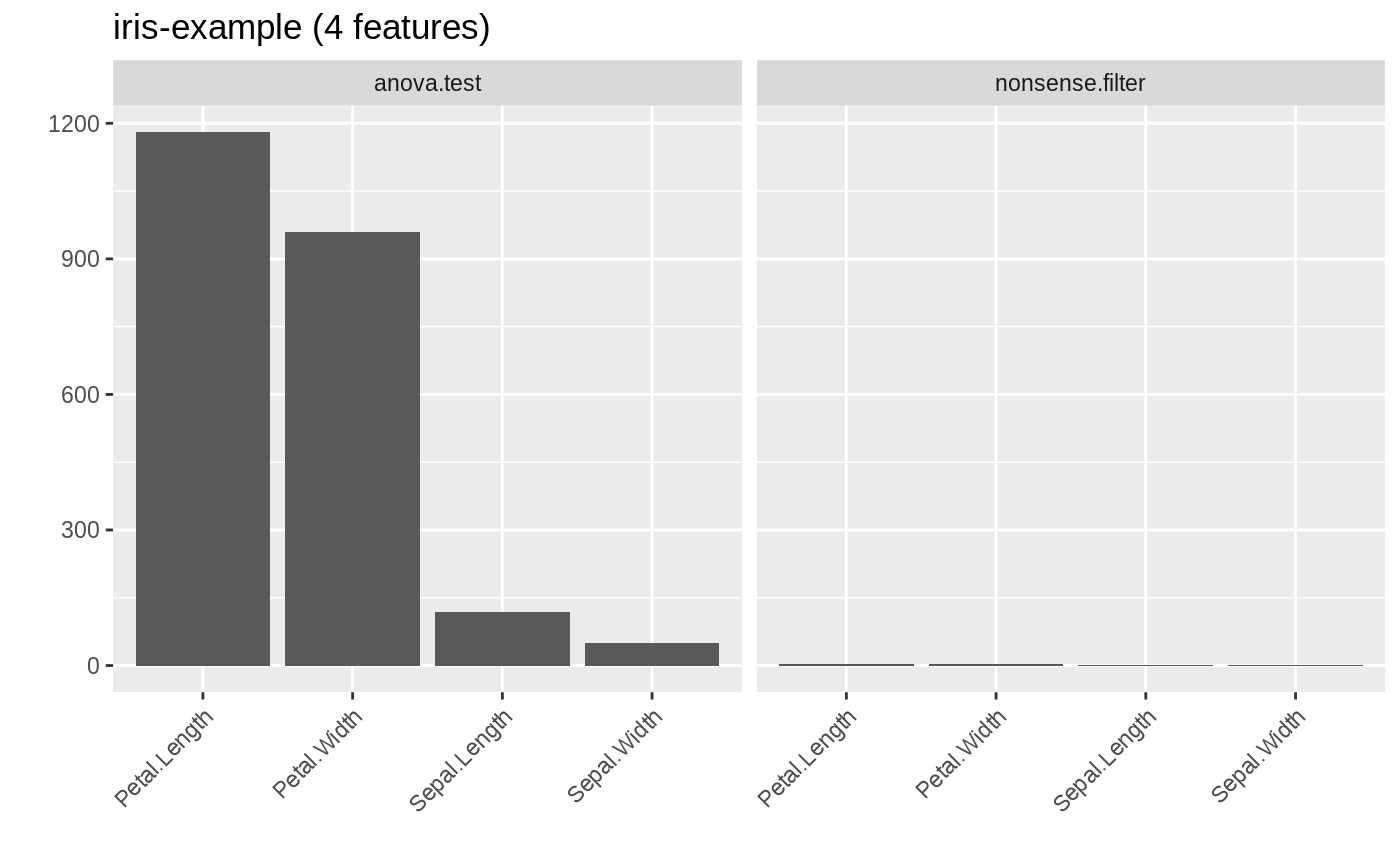
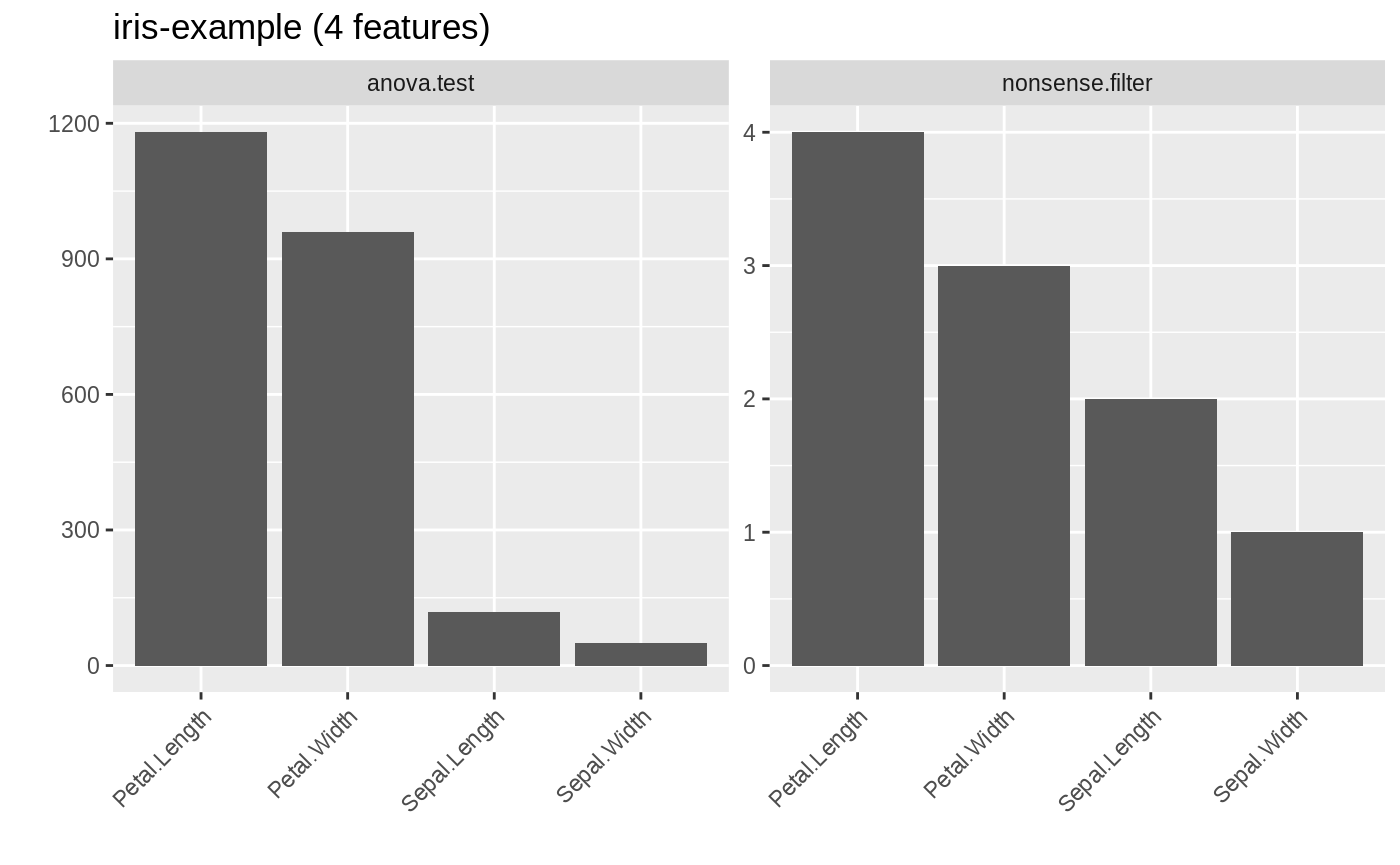
Deploy from Travis build 13946 [ci skip]
Build URL: https://travis-ci.org/mlr-org/mlr/builds/547668906
Commit: 23bc3cd9e0d50f19fd37b392d8d4e153556475c2

diff --git a/docs/news/index.html b/docs/news/index.html
@@ -305,6 +305,13 @@
 <h1 class="page-header">
 <a href="#mlr-2-14-0-9000" class="anchor"></a>mlr 2.14.0.9000<small> Unreleased </small>
 </h1>
+<div id="breaking" class="section level2">
+<h2 class="hasAnchor">
+<a href="#breaking" class="anchor"></a>Breaking</h2>
+<ul>
+<li>Instead of a wide <code>data.frame</code> filter values are now returned in a long (tidy) <code>tibble</code>. This makes it easier to apply post-processing methods (like <code>group_by()</code>, etc) (<a href='https://github.com/pat-s'>@pat-s</a>, <a href='https://github.com/mlr-org/mlr/issues/2456'>#2456</a>)</li>
+</ul>
+</div>
 <div id="learners---general" class="section level2">
 <h2 class="hasAnchor">
 <a href="#learners---general" class="anchor"></a>learners - general</h2>
@@ -352,6 +359,19 @@ See <code><a href="../reference/regr.randomForest.html">?regr.randomForest</a></
 <a href="#filters---general" class="anchor"></a>filters - general</h2>
 <ul>
 <li>Filter <code>praznik_mrmr</code> also supports <code>regr</code> and <code>surv</code> tasks</li>
+<li>
+<code>getFilterValuesData()</code> now returns a <code>tbl</code> instead of a <code>data.frame</code>. (<a href='https://github.com/pat-s'>@pat-s</a>, <a href='https://github.com/mlr-org/mlr/issues/2456'>#2456</a>)</li>
+<li>
+<code><a href="../reference/plotFilterValues.html">plotFilterValues()</a></code> got a bit “smarter” and easier now regarding the ordering of multiple facets. (<a href='https://github.com/pat-s'>@pat-s</a>, <a href='https://github.com/mlr-org/mlr/issues/2456'>#2456</a>)</li>
+<li>
+<code><a href="../reference/filterFeatures.html">filterFeatures()</a></code>, <code><a href="../reference/generateFilterValuesData.html">generateFilterValuesData()</a></code> and <code><a href="../reference/makeFilterWrapper.html">makeFilterWrapper()</a></code> gained new examples. (<a href='https://github.com/pat-s'>@pat-s</a>, <a href='https://github.com/mlr-org/mlr/issues/2456'>#2456</a>)</li>
+</ul>
+</div>
+<div id="filters---new" class="section level2">
+<h2 class="hasAnchor">
+<a href="#filters---new" class="anchor"></a>filters - new</h2>
+<ul>
+<li>Ensemble features are now supported. These filters combine multiple single filters to create a final ranking based on certain statistical operations. All new filters are listed in a dedicated section “ensemble filters” in the <a href="https://mlr.mlr-org.com/articles/tutorial/filter_methods.html">tutorial</a>. Tuning of simple features is not supported yet because of a <a href="https://github.com/berndbischl/ParamHelpers/pull/206">missing feature</a> in <em>ParamHelpers</em>. (<a href='https://github.com/pat-s'>@pat-s</a>, <a href='https://github.com/mlr-org/mlr/issues/2456'>#2456</a>)</li>
 </ul>
 </div>
 </div>
